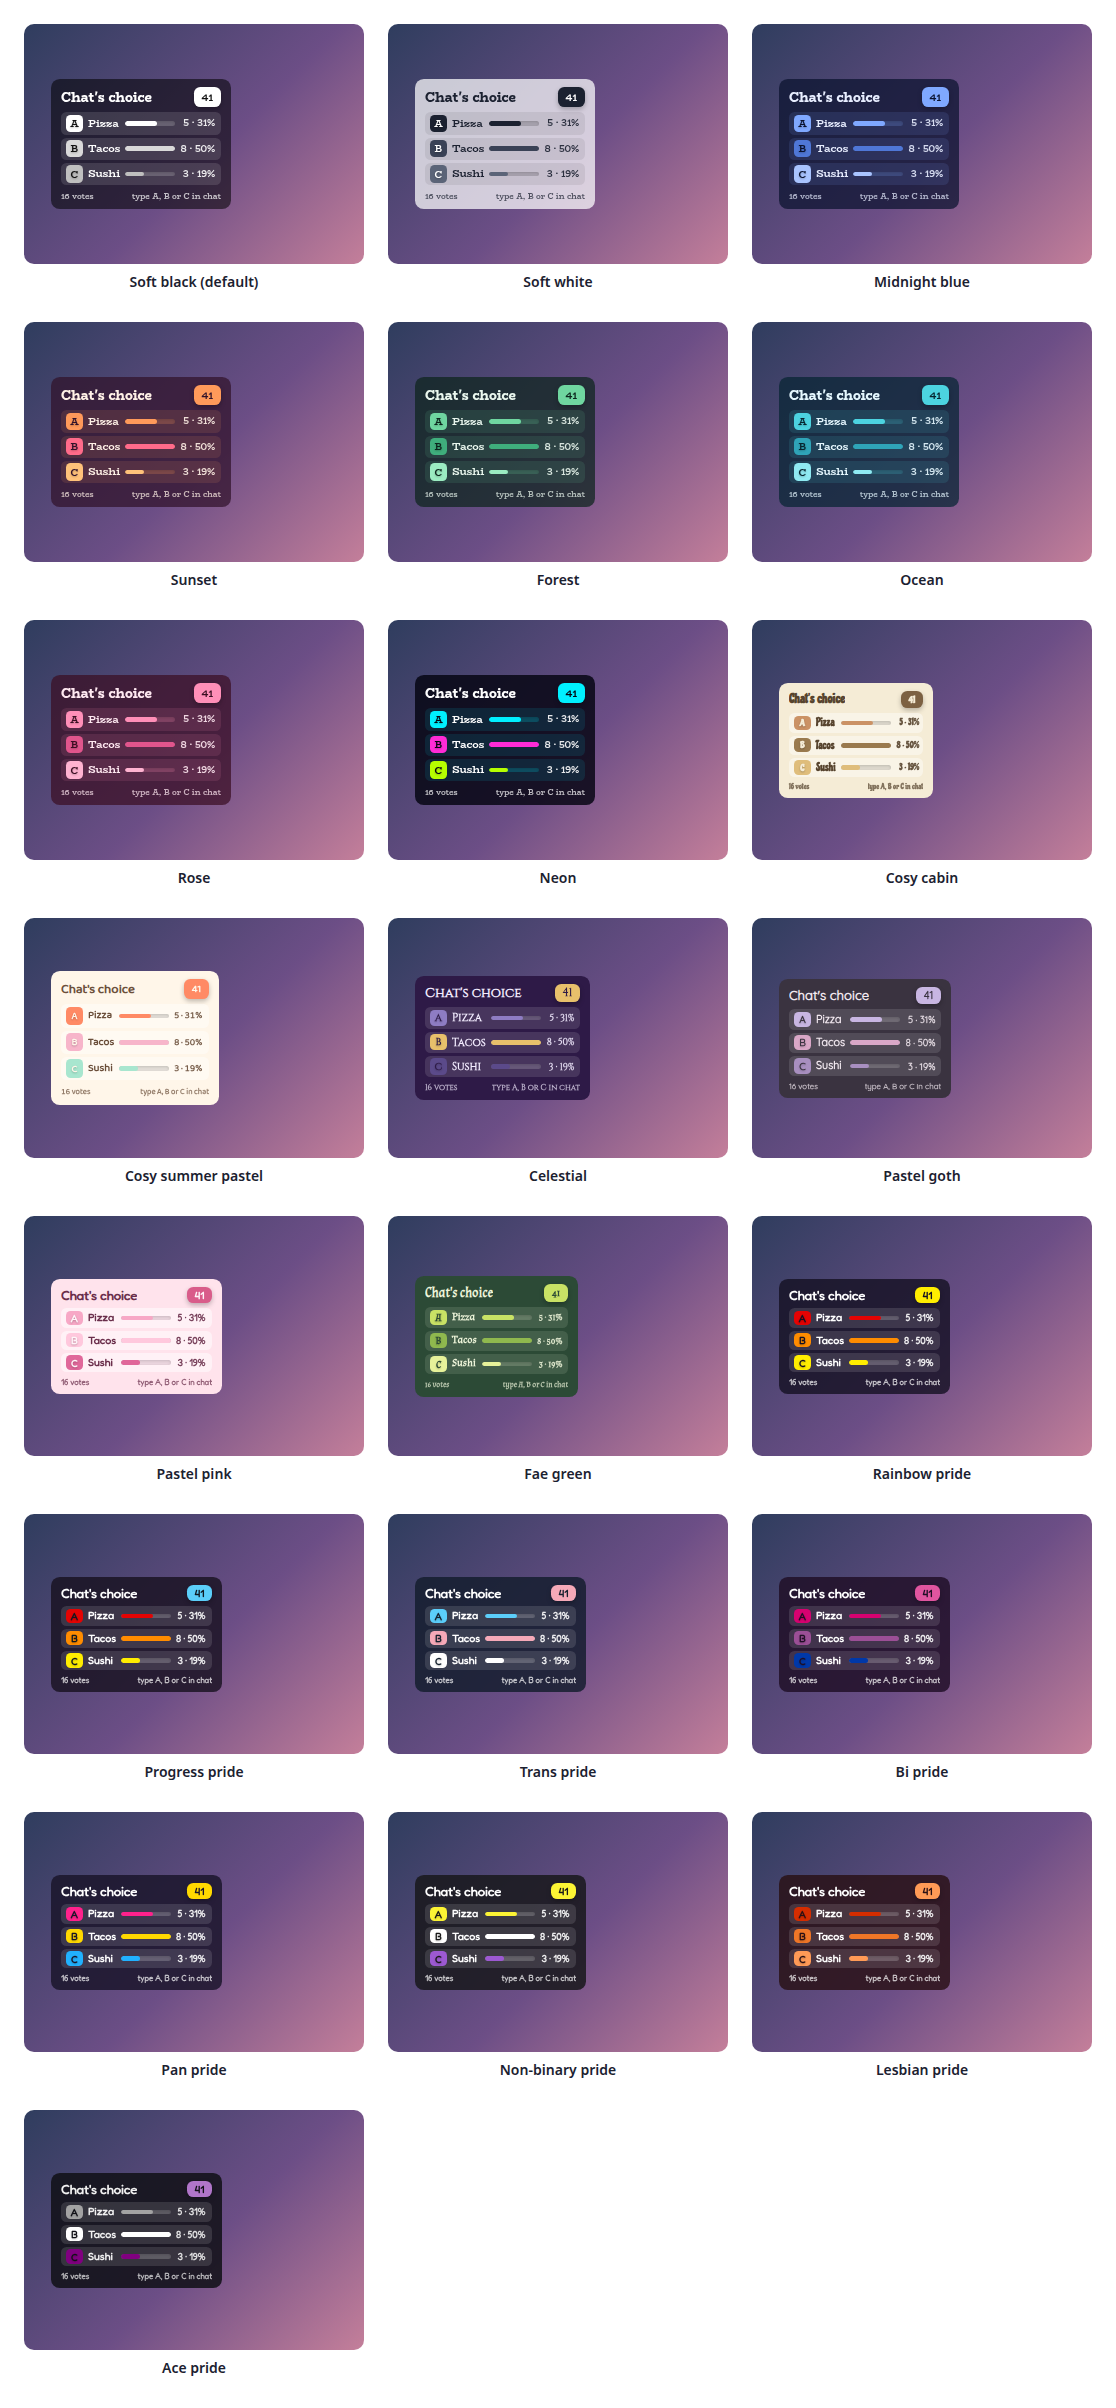
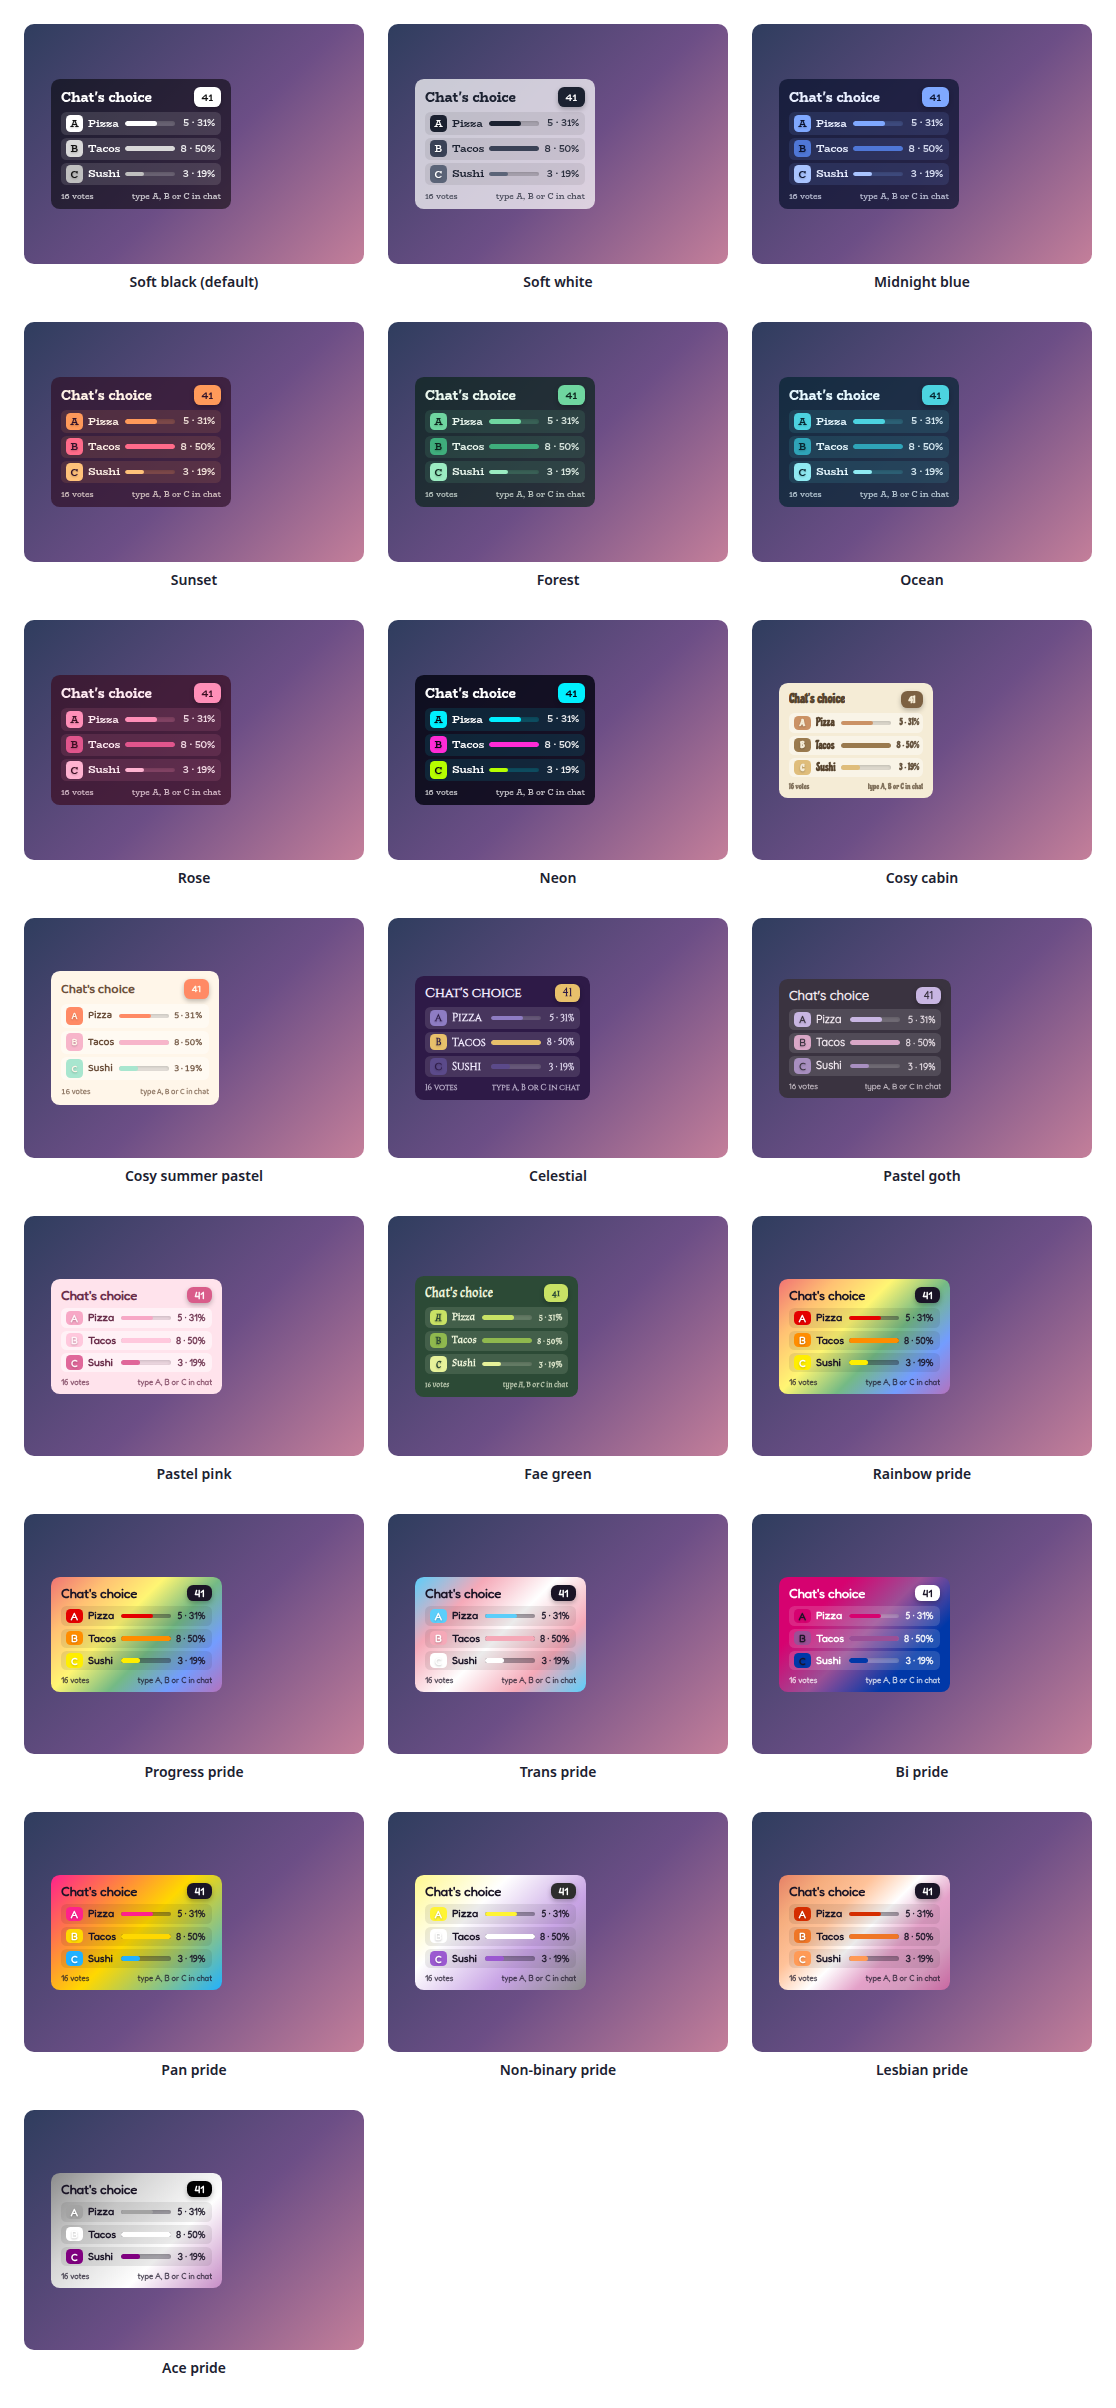
Give the pride presets flag-coloured panels
The pride presets used to be a dark card with only a thin striped bar, so the flag barely showed and the card did not match the palette. Now the card or panel itself wears the flag, as a soft gradient of its stripes, with the text kept readable.

How strong a wash goes over it is worked out, not guessed: the weakest scrim that keeps the text at a contrast of 4.6 or better against every stripe, in white or dark text as the flag needs. Trans, bi and pan need none, and a flag with a black stripe, such as ace and non-binary, gets a lighter wash. A plain colour stays as the fallback, so nothing that only understands a colour is affected, and every other preset, and Custom, is unchanged. The README gallery shows all twenty-two, and the tests check it.

diff --git a/test/test-widget.js b/test/test-widget.js
@@ -577,7 +577,7 @@ function ok(cond, msg) { if (cond) { pass++; console.log("  PASS " + msg); } els
 
   // ---- style presets: the same twenty-two, with the same colours, in every overlay
   console.log("\n[style presets]");
-  const EXPECT = {"glass": {"text": "#FFFFFF", "accent": "#FFFFFF", "panel": "rgba(0, 0, 0, 0.55)", "font": "BioRhyme"}, "frost": {"text": "#1B2130", "accent": "#1B2130", "panel": "rgba(255, 255, 255, 0.72)", "font": "BioRhyme"}, "midnight": {"text": "#E8EEFF", "accent": "#7FA8FF", "panel": "rgba(10, 18, 46, 0.72)", "font": "BioRhyme"}, "sunset": {"text": "#FFF1E6", "accent": "#FF9A5A", "panel": "rgba(48, 18, 42, 0.72)", "font": "BioRhyme"}, "forest": {"text": "#EAF7EE", "accent": "#6FD6A0", "panel": "rgba(12, 36, 28, 0.72)", "font": "BioRhyme"}, "ocean": {"text": "#E6F8FF", "accent": "#4CD3E0", "panel": "rgba(6, 36, 50, 0.72)", "font": "BioRhyme"}, "rose": {"text": "#FFE9F1", "accent": "#FF8FB8", "panel": "rgba(58, 14, 34, 0.72)", "font": "BioRhyme"}, "neon": {"text": "#FFFFFF", "accent": "#00F0FF", "panel": "rgba(4, 4, 16, 0.82)", "font": "BioRhyme"}, "cosycabin": {"text": "#57442E", "accent": "#7C6142", "panel": "#F5ECD6", "font": "Chicle"}, "pastel": {"text": "#6B4F3A", "accent": "#FF8A65", "panel": "#FFF6E9", "font": "Baloo 2"}, "celestial": {"text": "#F3ECFF", "accent": "#E8C06B", "panel": "#2E1A47", "font": "Cinzel"}, "pastelgoth": {"text": "#F2E9F0", "accent": "#C8B6E2", "panel": "#3A3340", "font": "Quicksand"}, "pastelpink": {"text": "#6A2E4B", "accent": "#D95C8A", "panel": "#FFE3EC", "font": "Fredoka"}, "faegreen": {"text": "#EEF5DA", "accent": "#C9E265", "panel": "#2C4A36", "font": "Almendra"}, "pride": {"text": "#FFFFFF", "accent": "#FFEE00", "panel": "rgba(20, 16, 34, 0.8)", "font": "Fredoka"}, "progress": {"text": "#FFFFFF", "accent": "#5BCEFA", "panel": "rgba(22, 16, 30, 0.8)", "font": "Fredoka"}, "trans": {"text": "#FFFFFF", "accent": "#F5A9B8", "panel": "rgba(18, 28, 44, 0.82)", "font": "Fredoka"}, "bi": {"text": "#FFFFFF", "accent": "#E0559F", "panel": "rgba(30, 14, 36, 0.82)", "font": "Fredoka"}, "pan": {"text": "#FFFFFF", "accent": "#FFD800", "panel": "rgba(24, 20, 40, 0.82)", "font": "Fredoka"}, "enby": {"text": "#FFFFFF", "accent": "#FFF433", "panel": "rgba(24, 24, 28, 0.86)", "font": "Fredoka"}, "lesbian": {"text": "#FFFFFF", "accent": "#FF9A56", "panel": "rgba(40, 16, 20, 0.82)", "font": "Fredoka"}, "ace": {"text": "#F1F1F1", "accent": "#B075C9", "panel": "rgba(16, 16, 22, 0.86)", "font": "Fredoka"}};
+  const EXPECT = {"glass": {"text": "#FFFFFF", "accent": "#FFFFFF", "panel": "rgba(0, 0, 0, 0.55)", "font": "BioRhyme"}, "frost": {"text": "#1B2130", "accent": "#1B2130", "panel": "rgba(255, 255, 255, 0.72)", "font": "BioRhyme"}, "midnight": {"text": "#E8EEFF", "accent": "#7FA8FF", "panel": "rgba(10, 18, 46, 0.72)", "font": "BioRhyme"}, "sunset": {"text": "#FFF1E6", "accent": "#FF9A5A", "panel": "rgba(48, 18, 42, 0.72)", "font": "BioRhyme"}, "forest": {"text": "#EAF7EE", "accent": "#6FD6A0", "panel": "rgba(12, 36, 28, 0.72)", "font": "BioRhyme"}, "ocean": {"text": "#E6F8FF", "accent": "#4CD3E0", "panel": "rgba(6, 36, 50, 0.72)", "font": "BioRhyme"}, "rose": {"text": "#FFE9F1", "accent": "#FF8FB8", "panel": "rgba(58, 14, 34, 0.72)", "font": "BioRhyme"}, "neon": {"text": "#FFFFFF", "accent": "#00F0FF", "panel": "rgba(4, 4, 16, 0.82)", "font": "BioRhyme"}, "cosycabin": {"text": "#57442E", "accent": "#7C6142", "panel": "#F5ECD6", "font": "Chicle"}, "pastel": {"text": "#6B4F3A", "accent": "#FF8A65", "panel": "#FFF6E9", "font": "Baloo 2"}, "celestial": {"text": "#F3ECFF", "accent": "#E8C06B", "panel": "#2E1A47", "font": "Cinzel"}, "pastelgoth": {"text": "#F2E9F0", "accent": "#C8B6E2", "panel": "#3A3340", "font": "Quicksand"}, "pastelpink": {"text": "#6A2E4B", "accent": "#D95C8A", "panel": "#FFE3EC", "font": "Fredoka"}, "faegreen": {"text": "#EEF5DA", "accent": "#C9E265", "panel": "#2C4A36", "font": "Almendra"}, "pride": {"text": "#1A1426", "accent": "#1A1426", "panel": "rgba(194, 168, 154, 0.9)", "font": "Fredoka"}, "progress": {"text": "#1A1426", "accent": "#1A1426", "panel": "rgba(194, 168, 154, 0.9)", "font": "Fredoka"}, "trans": {"text": "#1A1426", "accent": "#1A1426", "panel": "rgba(185, 201, 225, 0.9)", "font": "Fredoka"}, "bi": {"text": "#FFFFFF", "accent": "#FFFFFF", "panel": "rgba(117, 39, 142, 0.9)", "font": "Fredoka"}, "pan": {"text": "#1A1426", "accent": "#1A1426", "panel": "rgba(181, 142, 132, 0.9)", "font": "Fredoka"}, "enby": {"text": "#1A1426", "accent": "#2D2D2D", "panel": "rgba(212, 202, 192, 0.9)", "font": "Fredoka"}, "lesbian": {"text": "#1A1426", "accent": "#1A1426", "panel": "rgba(232, 167, 169, 0.9)", "font": "Fredoka"}, "ace": {"text": "#1A1426", "accent": "#000000", "panel": "rgba(202, 187, 202, 0.9)", "font": "Fredoka"}};
   const LABELS = {"glass": "Soft black (default)", "frost": "Soft white", "midnight": "Midnight blue", "sunset": "Sunset", "forest": "Forest", "ocean": "Ocean", "rose": "Rose", "neon": "Neon", "cosycabin": "Cosy cabin", "pastel": "Cosy summer pastel", "celestial": "Celestial", "pastelgoth": "Pastel goth", "pastelpink": "Pastel pink", "faegreen": "Fae green", "pride": "Rainbow pride", "progress": "Progress pride", "trans": "Trans pride", "bi": "Bi pride", "pan": "Pan pride", "enby": "Non-binary pride", "lesbian": "Lesbian pride", "ace": "Ace pride", "custom": "Custom (use the colours below)"};
   ok(JSON.stringify(Object.keys(fields.themePreset.options)) === JSON.stringify(Object.keys(LABELS)) && Object.keys(LABELS).length === 23, "the dropdown offers the twenty-two shared presets and Custom, in the shared order");
   ok(Object.keys(LABELS).every(k => fields.themePreset.options[k] === LABELS[k]), "with the shared labels");
@@ -588,6 +588,13 @@ function ok(cond, msg) { if (cond) { pass++; console.log("  PASS " + msg); } els
     ok(S2["--text"] === EXPECT[key].text && S2["--accent"] === EXPECT[key].accent && S2["--bg"] === EXPECT[key].panel && S2["--font"].indexOf('"' + EXPECT[key].font + '"') !== -1,
       key + ": panel, text, accent and font match the shared table (" + S2["--text"] + ", " + S2["--accent"] + ")");
   }
+  console.log("\n[pride flags behind the card]");
+  load({ themePreset: "trans" }); await wait(5);
+  ok(elements["vote-app"].style["--bg-img"] === "linear-gradient(135deg, #5BCEFA, #F5A9B8, #FFFFFF, #F5A9B8, #5BCEFA)", "the trans preset puts its flag behind the card (" + elements["vote-app"].style["--bg-img"] + ")");
+  load({ themePreset: "ace" }); await wait(5);
+  ok(/^linear-gradient\(rgba\(255, 255, 255, 0\.\d+\), rgba\(255, 255, 255, 0\.\d+\)\), linear-gradient\(135deg, #000000, #A3A3A3, #FFFFFF, #800080\)$/.test(elements["vote-app"].style["--bg-img"]), "a flag with a black stripe gets a light wash over it, so the dark text stays readable");
+  load({ themePreset: "glass" }); await wait(5);
+  ok(elements["vote-app"].style["--bg-img"] === "none", "and every other preset leaves the card plain");
   console.log("\n=== " + pass + " passed, " + fail + " failed ===");
   process.exit(fail ? 1 : 0);
 })();

diff --git a/widget/widget.js b/widget/widget.js
@@ -109,52 +109,60 @@
       font: "Almendra"
     },
     pride: {
-      bg: "rgba(20, 16, 34, 0.8)", text: "#FFFFFF", accent: "#FFEE00", onAccent: "#141022",
-      row: "rgba(255, 255, 255, 0.12)", track: "rgba(255, 255, 255, 0.2)",
+      bg: "rgba(194, 168, 154, 0.9)", text: "#1A1426", accent: "#1A1426", onAccent: "#FFFFFF",
+      row: "rgba(0, 0, 0, 0.08)", track: "rgba(26, 20, 38, 0.34)",
       segs: ["#E50000", "#FF8D00", "#FFEE00", "#028121", "#004CFF", "#770088", "#E50000", "#FF8D00"],
-      font: "Fredoka"
+      font: "Fredoka",
+      bgimg: "linear-gradient(rgba(255, 255, 255, 0.45), rgba(255, 255, 255, 0.45)), linear-gradient(135deg, #E50000, #FF8D00, #FFEE00, #028121, #004CFF, #770088)"
     },
     progress: {
-      bg: "rgba(22, 16, 30, 0.8)", text: "#FFFFFF", accent: "#5BCEFA", onAccent: "#101820",
-      row: "rgba(255, 255, 255, 0.12)", track: "rgba(255, 255, 255, 0.2)",
+      bg: "rgba(194, 168, 154, 0.9)", text: "#1A1426", accent: "#1A1426", onAccent: "#FFFFFF",
+      row: "rgba(0, 0, 0, 0.08)", track: "rgba(26, 20, 38, 0.34)",
       segs: ["#E50000", "#FF8D00", "#FFEE00", "#028121", "#004CFF", "#770088", "#F5A9B8", "#5BCEFA"],
-      font: "Fredoka"
+      font: "Fredoka",
+      bgimg: "linear-gradient(rgba(255, 255, 255, 0.45), rgba(255, 255, 255, 0.45)), linear-gradient(135deg, #E50000, #FF8D00, #FFEE00, #028121, #004CFF, #770088)"
     },
     trans: {
-      bg: "rgba(18, 28, 44, 0.82)", text: "#FFFFFF", accent: "#F5A9B8", onAccent: "#14202E",
-      row: "rgba(255, 255, 255, 0.12)", track: "rgba(255, 255, 255, 0.2)",
+      bg: "rgba(185, 201, 225, 0.9)", text: "#1A1426", accent: "#1A1426", onAccent: "#FFFFFF",
+      row: "rgba(0, 0, 0, 0.08)", track: "rgba(26, 20, 38, 0.34)",
       segs: ["#5BCEFA", "#F5A9B8", "#FFFFFF", "#5BCEFA", "#F5A9B8", "#FFFFFF", "#5BCEFA", "#F5A9B8"],
-      font: "Fredoka"
+      font: "Fredoka",
+      bgimg: "linear-gradient(135deg, #5BCEFA, #F5A9B8, #FFFFFF, #F5A9B8, #5BCEFA)"
     },
     bi: {
-      bg: "rgba(30, 14, 36, 0.82)", text: "#FFFFFF", accent: "#E0559F", onAccent: "#1E0E24",
-      row: "rgba(255, 255, 255, 0.12)", track: "rgba(255, 255, 255, 0.2)",
+      bg: "rgba(117, 39, 142, 0.9)", text: "#FFFFFF", accent: "#FFFFFF", onAccent: "#1A1426",
+      row: "rgba(255, 255, 255, 0.14)", track: "rgba(255, 255, 255, 0.24)",
       segs: ["#D60270", "#9B4F96", "#0038A8", "#D60270", "#9B4F96", "#0038A8", "#D60270", "#9B4F96"],
-      font: "Fredoka"
+      font: "Fredoka",
+      bgimg: "linear-gradient(135deg, #D60270, #D60270, #9B4F96, #0038A8, #0038A8)"
     },
     pan: {
-      bg: "rgba(24, 20, 40, 0.82)", text: "#FFFFFF", accent: "#FFD800", onAccent: "#181428",
-      row: "rgba(255, 255, 255, 0.12)", track: "rgba(255, 255, 255, 0.2)",
+      bg: "rgba(181, 142, 132, 0.9)", text: "#1A1426", accent: "#1A1426", onAccent: "#FFFFFF",
+      row: "rgba(0, 0, 0, 0.08)", track: "rgba(26, 20, 38, 0.34)",
       segs: ["#FF218C", "#FFD800", "#21B1FF", "#FF218C", "#FFD800", "#21B1FF", "#FF218C", "#FFD800"],
-      font: "Fredoka"
+      font: "Fredoka",
+      bgimg: "linear-gradient(135deg, #FF218C, #FFD800, #21B1FF)"
     },
     enby: {
-      bg: "rgba(24, 24, 28, 0.86)", text: "#FFFFFF", accent: "#FFF433", onAccent: "#181818",
-      row: "rgba(255, 255, 255, 0.12)", track: "rgba(255, 255, 255, 0.2)",
+      bg: "rgba(212, 202, 192, 0.9)", text: "#1A1426", accent: "#2D2D2D", onAccent: "#FFFFFF",
+      row: "rgba(0, 0, 0, 0.08)", track: "rgba(26, 20, 38, 0.34)",
       segs: ["#FFF433", "#FFFFFF", "#9B59D0", "#2D2D2D", "#FFF433", "#FFFFFF", "#9B59D0", "#2D2D2D"],
-      font: "Fredoka"
+      font: "Fredoka",
+      bgimg: "linear-gradient(rgba(255, 255, 255, 0.45), rgba(255, 255, 255, 0.45)), linear-gradient(135deg, #FFF433, #FFFFFF, #9B59D0, #2D2D2D)"
     },
     lesbian: {
-      bg: "rgba(40, 16, 20, 0.82)", text: "#FFFFFF", accent: "#FF9A56", onAccent: "#2A1014",
-      row: "rgba(255, 255, 255, 0.12)", track: "rgba(255, 255, 255, 0.2)",
+      bg: "rgba(232, 167, 169, 0.9)", text: "#1A1426", accent: "#1A1426", onAccent: "#FFFFFF",
+      row: "rgba(0, 0, 0, 0.08)", track: "rgba(26, 20, 38, 0.34)",
       segs: ["#D52D00", "#EF7627", "#FF9A56", "#FFFFFF", "#D162A4", "#B55690", "#A30262", "#EF7627"],
-      font: "Fredoka"
+      font: "Fredoka",
+      bgimg: "linear-gradient(rgba(255, 255, 255, 0.40), rgba(255, 255, 255, 0.40)), linear-gradient(135deg, #D52D00, #EF7627, #FF9A56, #FFFFFF, #D162A4, #B55690, #A30262)"
     },
     ace: {
-      bg: "rgba(16, 16, 22, 0.86)", text: "#F1F1F1", accent: "#B075C9", onAccent: "#101016",
-      row: "rgba(255, 255, 255, 0.12)", track: "rgba(255, 255, 255, 0.2)",
+      bg: "rgba(202, 187, 202, 0.9)", text: "#1A1426", accent: "#000000", onAccent: "#FFFFFF",
+      row: "rgba(0, 0, 0, 0.08)", track: "rgba(26, 20, 38, 0.34)",
       segs: ["#A3A3A3", "#FFFFFF", "#800080", "#000000", "#A3A3A3", "#FFFFFF", "#800080", "#000000"],
-      font: "Fredoka"
+      font: "Fredoka",
+      bgimg: "linear-gradient(rgba(255, 255, 255, 0.55), rgba(255, 255, 255, 0.55)), linear-gradient(135deg, #000000, #A3A3A3, #FFFFFF, #800080)"
     }
   };
   var BASE = PRESETS.glass;
@@ -333,7 +341,7 @@
     return {
       bg: p.bg, text: p.text, accent: p.accent, onAccent: p.onAccent || p.bg,
       row: p.row || "rgba(255, 255, 255, 0.42)", track: p.track || "rgba(0, 0, 0, 0.11)",
-      segs: p.segs, font: p.font
+      segs: p.segs, font: p.font, bgimg: p.bgimg || ""
     };
   }
 
@@ -342,6 +350,7 @@
     var root = el.app;
     if (!root) return;
     root.style.setProperty("--bg", t.bg);
+    root.style.setProperty("--bg-img", t.bgimg || "none");
     root.style.setProperty("--text", t.text);
     root.style.setProperty("--accent", t.accent);
     root.style.setProperty("--font", '"' + t.font + '", "Baloo 2", "Segoe UI", sans-serif');

diff --git a/widget/widget.css b/widget/widget.css
@@ -124,6 +124,7 @@
   gap: calc(var(--gap) * 1em);
   padding: calc(var(--pad-v) * 1em) calc(var(--pad-h) * 1em) calc(var(--pad-v) * 0.8em);
   background: var(--bg);
+  background-image: var(--bg-img, none);
   border: calc(var(--border-w) * 1em) solid var(--c-border);
   border-radius: calc(var(--radius) * 1em);
   box-shadow: var(--shadow);

diff --git a/README.md b/README.md
@@ -53,16 +53,16 @@ One setting picks the look. The same twenty-two presets, with the same colours, 
 | Pastel goth | Charcoal and lilac, in Quicksand. |
 | Pastel pink | Soft blush pink with rose, in Fredoka. |
 | Fae green | Mossy green with a firefly lime accent, in Almendra. |
-| Rainbow pride | Dark plum with the six rainbow stripes, in Fredoka. |
-| Progress pride | The six rainbow stripes with the chevron's pink and light blue. |
-| Trans pride | Dark blue with light blue, pink and white. |
-| Bi pride | Dark violet with magenta, purple and blue. |
-| Pan pride | Dark indigo with pink, yellow and light blue. |
-| Non-binary pride | Charcoal with yellow, white, purple and black. |
-| Lesbian pride | Dark wine with the orange to pink stripes. |
-| Ace pride | Near black with grey, white and purple. |
+| Rainbow pride | A soft wash of the six rainbow stripes, in Fredoka. |
+| Progress pride | The same stripes, with the chevron's pink and light blue in the wheel and poll colours. |
+| Trans pride | Light blue, pink and white. |
+| Bi pride | Magenta, purple and blue, with white text. |
+| Pan pride | Pink, yellow and light blue. |
+| Non-binary pride | Yellow, white, purple and black, softened so the text stays readable. |
+| Lesbian pride | The orange to pink stripes. |
+| Ace pride | Black, grey, white and purple, softened so the text stays readable. |
 
-The last eight are pride presets, built from the stripes of the rainbow, progress, trans, bi, pan, non-binary, lesbian and ace flags. A bar is striped like the flag where an overlay has one, and the slices of a wheel and the options of a poll take their colours from the stripes in order. The colours follow each flag's published design, and the progress flag shows its six rainbow stripes, because its chevron is a separate shape.
+The last eight are pride presets, built from the stripes of the rainbow, progress, trans, bi, pan, non-binary, lesbian and ace flags. The card or panel wears the flag as its background, with only as much of a wash over it as the text needs to stay readable, so flags with a black stripe come out softer. A bar is striped like the flag where an overlay has one, and the slices of a wheel and the options of a poll take their colours from the stripes in order. The colours follow each flag's published design, and the progress flag shows its six rainbow stripes, because its chevron is a separate shape.
 
 Choose **Custom** to use the colour pickers and font instead. They are ignored while a preset is chosen.
 
